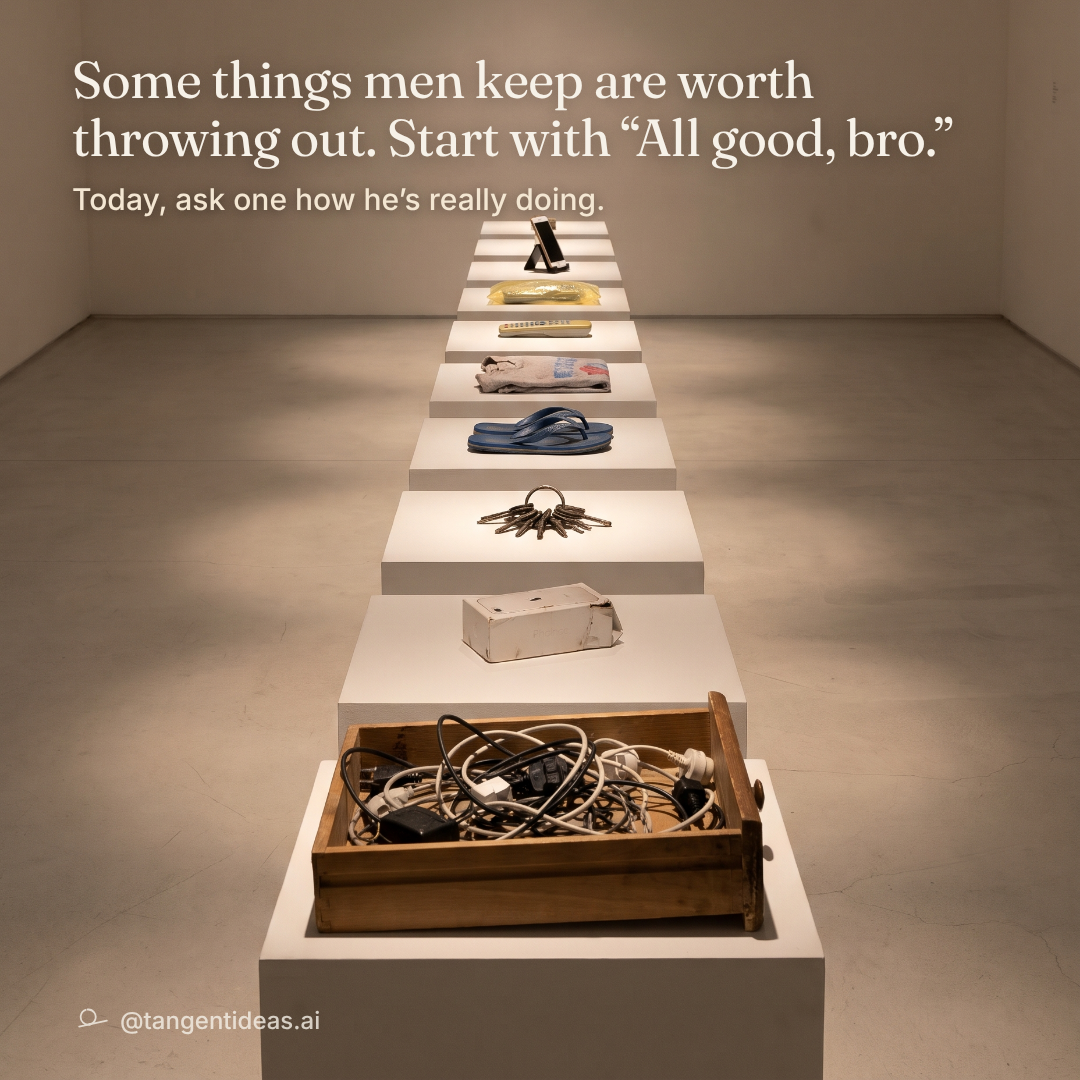
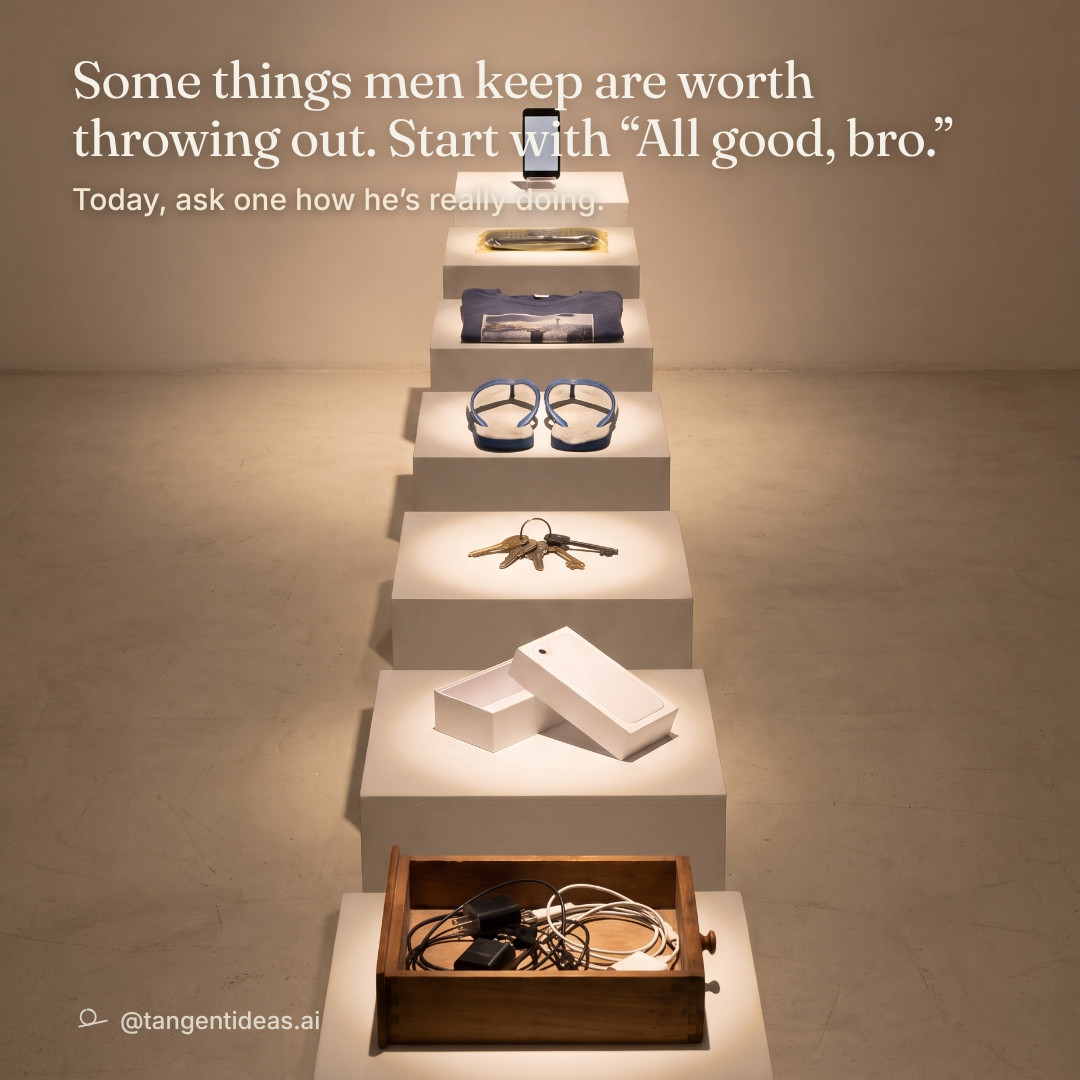
Museum of Men: row-v2 review, row-v3 requested
Claude-Session: https://claude.ai/code/session_01ETPVMQfxYKhapRnTByD51a

diff --git a/productions/2026-11-museum-of-men/slides-square/html/slide-10.html b/productions/2026-11-museum-of-men/slides-square/html/slide-10.html
@@ -11,7 +11,7 @@ h1{margin:14px 0 0;max-width:940px;font:400 56px/1.12 Fraunces,Georgia,serif;let
 .foot{display:flex;justify-content:space-between;align-items:center;font:500 24px Inter;opacity:.8}
 .foot .me{display:flex;gap:12px;align-items:center}
 .dark{color:#f6f1e8} .dark .lbl{color:#e6cfae}
-.close{margin-top:0;font-size:52px;max-width:900px;text-shadow:0 2px 18px rgba(0,0,0,.35)} .csub{margin-top:14px;font:500 30px/1.3 Inter;color:#f3e6d2;text-shadow:0 2px 12px rgba(0,0,0,.45)}</style></head><body style="background:url('file:///home/user/tangent-social-media/productions/2026-11-museum-of-men/assets/gen/pick/slide-09.png') no-repeat;background-size:1080px 1340.6896551724137px;background-position:0px -260.6896551724138px"><div class="slide dark">
+.close{margin-top:0;font-size:52px;max-width:900px;text-shadow:0 2px 18px rgba(0,0,0,.35)} .csub{margin-top:14px;font:500 30px/1.3 Inter;color:#f3e6d2;text-shadow:0 2px 12px rgba(0,0,0,.45)}</style></head><body style="background:url('file:///home/user/tangent-social-media/productions/2026-11-museum-of-men/assets/gen/row-v2/pick-4x5.png') no-repeat;background-size:1080px 1340.6896551724137px;background-position:0px -260.6896551724138px"><div class="slide dark">
 <h1 class="close">Some things men keep are worth throwing out. Start with &ldquo;All good, bro.&rdquo;</h1><div class="csub">Today, ask one how he&rsquo;s really doing.</div><div class="spacer"></div>
 <div class="foot"><span class="me"><svg viewBox="0 0 120 120" fill="none" width="36" height="36" style="color:currentColor"><path d="M 52.26 25.06 A 25 25 0 1 1 45.45 26.5" stroke="currentColor" stroke-width="6" stroke-linecap="round"/><line x1="24" y1="82" x2="116.2" y2="62.4" stroke="currentColor" stroke-width="6" stroke-linecap="round"/><circle cx="59.2" cy="74.5" r="4.85" fill="currentColor"/></svg><span>@tangentideas.ai</span></span><span></span></div>
 </div></body></html>

diff --git a/productions/2026-11-museum-of-men/README.md b/productions/2026-11-museum-of-men/README.md
@@ -123,3 +123,9 @@ last two exhibits turn warm: what he gives up, and his phone, so call him.
     new 9:16 `F0-row.jpg` for the video.
   - The video edit session was told to swap it in.
   - Drive slide-10 gets replaced after review.
+- 2026-11-19: row-v2 landed (same objects, order and colours). Showrunner review against the
+  comparison:
+  - still not identical: phone box (clean vs scuffed), T-shirt print, keys count, drawer density;
+  - in the square crop, the far plinths (phone, remote) collide with the headline.
+  - Asked for row-v3: a 1:1 version with headroom, plus closer object fidelity in all versions.
+  - Slide 10 is not changed in Drive yet.
